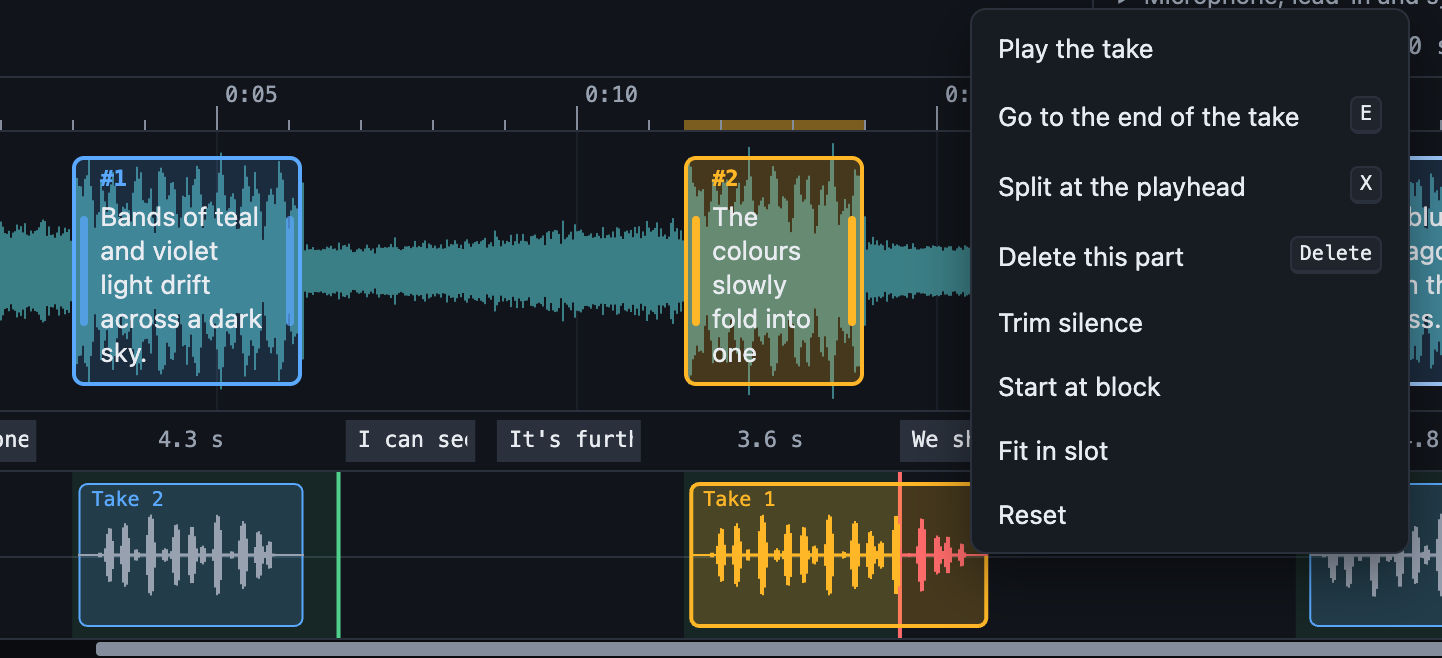
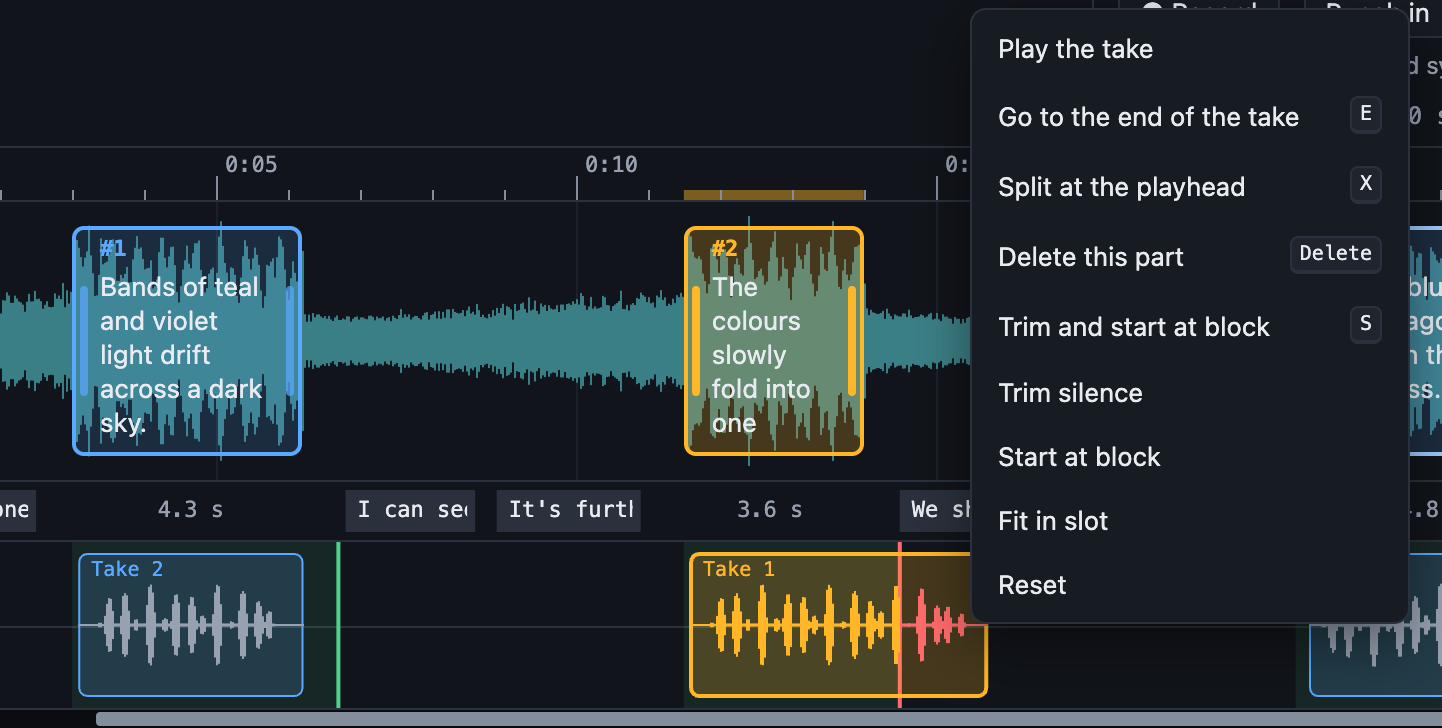
Tidy takes in one step, and a recording loop (#70)
* Trim and start a take at its block in one step

A narrator asked for an easier way to line up takes they come in late on.
Record mode's take menu and editor get Trim and start at block, which trims
the silence and then starts the take at its block. S does it for the
selected block's take.

* Trim silence at the end of a take too, past the stop key's click

The key that stops a recording is recorded, so Trim silence kept everything
up to its click and the end of a take needed trimming by hand. A short sound
on its own at either end is now left out, and quiet allows for room noise
above the −45 dBFS floor.

* A recording loop card, with S to tidy each take

Record mode had no loop card, and Show the loop there opened the
transcribing loop. It now has its own: record, tidy with S, next block.
It shows once after Record mode's setup, as the other modes' loops do.

* Punching in with E in the recording loop

---------

diff --git a/app/js/record.js b/app/js/record.js
@@ -3,7 +3,7 @@
 // that); this file does the recording. The guide is Guides/RECORDING.md.
 
 import { drawLevel, sizeMeter, showLoudest } from './levelmeter.js';
-import { slots, prevEnd, narrationTimeline, peakTrail, peakDb, judgePeak, dbText, runsOver, checkExport, exportReport, recordingId, placeTake, looksBluetooth, narrationNote, takeAt, nextTake, punchIn, PUNCH_MIN, pieces, placed, clampEdit, splitAt, cutPart, trimSilence, fitSlot, startAtBlock, snap, flatten, wavePeaks, clipAt, relink, takesKey, pickedUp, originalTake, checkPickups, checkAlts, isAlt, markerLabel, leadInParts, partEnds, stepEnd, videoDb, videoDbText, VIDEO_DB_MIN, fromRecordingFile, asRecordingFile, DRIFT, PREROLL, RATE } from './recording.js';
+import { slots, prevEnd, narrationTimeline, peakTrail, peakDb, judgePeak, dbText, runsOver, checkExport, exportReport, recordingId, placeTake, looksBluetooth, narrationNote, takeAt, nextTake, punchIn, PUNCH_MIN, pieces, placed, clampEdit, splitAt, cutPart, trimSilence, fitSlot, startAtBlock, trimAndStart, snap, flatten, wavePeaks, clipAt, relink, takesKey, pickedUp, originalTake, checkPickups, checkAlts, isAlt, markerLabel, leadInParts, partEnds, stepEnd, videoDb, videoDbText, VIDEO_DB_MIN, fromRecordingFile, asRecordingFile, DRIFT, PREROLL, RATE } from './recording.js';
 import { storeZip } from './zip.js';
 import { blockToHold, stillHeard, pauseList } from './extended.js';
 import { fmtTime } from './formats.js';
@@ -307,6 +307,9 @@ export function initRecord(h) {
       try { return trimSilence(t, await pcmOf(t)); } catch (err) { h.toast(`Couldn’t read the take: ${err.message}`); return null; }
     },
     start: (t) => startAtBlock(t, sl()[t.block], prevEndOf(t.block)),
+    async both(t) {
+      try { return trimAndStart(t, await pcmOf(t), sl()[t.block], prevEndOf(t.block)); } catch (err) { h.toast(`Couldn’t read the take: ${err.message}`); return null; }
+    },
     fit: (t) => fitSlot(t, sl()[t.block], prevEndOf(t.block)),
     reset(t) { pick = { id: t.id, part: 0 }; return { splits: [], parts: [{}] }; },
   };
@@ -363,6 +366,7 @@ export function initRecord(h) {
       field('Trim start', 'head', 'Cut this much off the start of this part. Below 0 brings back the sound before it'),
       field('Trim end', 'tail', 'Cut this much off the end of this part. Below 0 brings back the sound after it'),
       btn('Split', 'Split the take at the playhead, to move its parts apart or closer together (X)', () => doEdit(t, 'split')), cutBtn,
+      btn('Trim and start at block', 'Trim the silence, then move the take so its sound starts where the block does (S)', () => doEdit(t, 'both')),
       btn('Trim silence', 'Cut the quiet off both ends of every part, keeping a moment of it', () => doEdit(t, 'silence')),
       btn('Start at block', 'Move the take so its sound starts where the block does', () => doEdit(t, 'start')),
       btn('Fit in slot', 'Trim the end so the take stops where its slot does', () => doEdit(t, 'fit')),
@@ -1447,6 +1451,13 @@ export function initRecord(h) {
       if (!t) { h.toast(`Block ${h.selIdx() + 1} has no take yet`); return true; }
       const ends = partEnds(t), e = stepEnd(ends, video.currentTime, dir);
       goToEnd(t, ends.indexOf(e));
+      return true;
+    },
+    // S: Trim silence, then Start at block, on the selected block's take. False if no block is selected.
+    trimTake() {
+      if (!rec || state !== 'idle' || h.selIdx() < 0) return false;
+      const t = keyTake();
+      if (t) doEdit(t, 'both'); else h.toast(`Block ${h.selIdx() + 1} has no take yet`);
       return true;
     },
     // Deletes the part of a take last clicked, or the one open in the editor.

diff --git a/app/js/recording.js b/app/js/recording.js
@@ -408,13 +408,39 @@ export function splitAt(t, time) {
 }
 
 // Where the sound begins and ends in a stretch of recording: { head, tail } to trim, in
-// seconds, keeping `pad` of quiet at each end. Quiet is below `floorDb`. pcm: Float32Array.
-export function silenceEnds(pcm, rate = RATE, { floorDb = -45, pad = 0.05 } = {}) {
-  const floor = 10 ** (floorDb / 20);
-  let a = 0, z = pcm.length - 1;
-  while (a < pcm.length && Math.abs(pcm[a]) < floor) a++;
-  while (z > a && Math.abs(pcm[z]) < floor) z--;
-  if (a >= pcm.length) return { head: 0, tail: 0 }; // all quiet: leave it for the narrator
+// seconds, keeping `pad` of quiet at each end. pcm: Float32Array.
+// Quiet is below `floorDb`, or a little above the room's own noise if that's louder. A short
+// sound on its own at either end, such as the click of the key that stopped the recording,
+// is left out: words closer together than `gap` count as one stretch of speech, and a
+// stretch shorter than `blip` at an end is trimmed off, unless it's all there is.
+export function silenceEnds(pcm, rate = RATE, { floorDb = -45, pad = 0.05, gap = 0.25, blip = 0.12 } = {}) {
+  const W = Math.max(1, Math.round(rate / 100)), n = Math.ceil(pcm.length / W); // 10 ms windows
+  const lv = new Float32Array(n);
+  for (let w = 0; w < n; w++) {
+    let m = 0;
+    for (let i = w * W, e = Math.min(pcm.length, i + W); i < e; i++) { const v = Math.abs(pcm[i]); if (v > m) m = v; }
+    lv[w] = m;
+  }
+  // The room: the quietest tenth of the windows. Quiet is 12 dB above it, but never closer
+  // than 24 dB below the loudest moment, so a take with little pause in it isn't cut into.
+  const sorted = Float32Array.from(lv).sort(), room = sorted[Math.floor(n * 0.1)] || 0, top = sorted[n - 1] || 0;
+  const floor = Math.max(10 ** (floorDb / 20), Math.min(room * 4, top * 10 ** (-24 / 20)));
+  // Stretches of sound, in windows, joined across short pauses.
+  const runs = [];
+  for (let w = 0; w < n; w++) {
+    if (lv[w] < floor) continue;
+    const last = runs[runs.length - 1];
+    if (last && (w - last.z - 1) * W < gap * rate) { last.z = w; last.loud++; } else runs.push({ a: w, z: w, loud: 1 });
+  }
+  if (!runs.length) return { head: 0, tail: 0 }; // all quiet: leave it for the narrator
+  const short = (r) => r.loud * W < blip * rate;
+  let first = 0, end = runs.length - 1;
+  while (first < end && short(runs[first])) first++;
+  while (end > first && short(runs[end])) end--;
+  // The exact samples, inside the first and last windows with sound.
+  let a = runs[first].a * W, z = Math.min(pcm.length, runs[end].z * W + W) - 1;
+  while (Math.abs(pcm[a]) < floor) a++;
+  while (Math.abs(pcm[z]) < floor) z--;
   const p = Math.round(pad * rate);
   return { head: Math.max(0, a - p) / rate, tail: Math.max(0, pcm.length - 1 - z - p) / rate };
 }
@@ -445,6 +471,11 @@ export function fitSlot(t, slot, prevEnd = 0) {
 export function startAtBlock(t, slot, prevEnd = 0) {
   const e = fullEdit(t), d = slot.start - placed(t).start;
   return clampEdit(t, { splits: e.splits, parts: e.parts.map((x) => ({ ...x, shift: x.shift + d })) }, prevEnd);
+}
+
+// Trim silence, then Start at block, in one step: what a narrator wants after most takes.
+export function trimAndStart(t, pcm, slot, prevEnd = 0, rate = RATE) {
+  return startAtBlock({ ...t, edit: trimSilence(t, pcm, rate) }, slot, prevEnd);
 }
 
 // Snapping while dragging: the target nearest `v` within `tol`, or `v` if none is.

diff --git a/app/js/tour.js b/app/js/tour.js
@@ -23,6 +23,14 @@ export function loop(mode, key = keyFor) {
     '3. Play and check each block in context. The script and timings stay fixed in comments-only packages. The creator can allow edits when making a package.',
     '4. Click Comment on a block, or right-click the timeline. Save and return the reviewed file.',
   ].join('\n');
+  if (mode === 'record') return [
+    'Most of the work is one loop, repeated through the script:',
+    '1. Record it. Press Enter or R. The video plays from a few seconds before the block; read when the picture reaches the line, then press Enter or Space to stop.',
+    '2. Tidy it. S trims the silence off both ends of the take and starts it where the block does. Not happy with it? Press Enter or R to record it again.',
+    `3. Go on to the next block with ${key('blockNext')}.`,
+    'Only the end went wrong? Punch in: E puts the playhead at the end of the take, ← steps back to where to pick up, and Shift+Enter or Shift+R records from there.',
+    'Every take is kept, and the newest goes in the export.',
+  ].join('\n');
   return mode === 'write'
     ? [
       'Most of the work is one loop, repeated through the programme:',
@@ -119,7 +127,7 @@ export function stepsFor(mode, visible = () => true) {
 }
 
 export const LOOP_STEP = {
-  title: (mode) => (mode === 'qc' ? 'The QC loop' : mode === 'write' ? 'The writing loop' : 'The transcribing loop'),
+  title: (mode) => ({ qc: 'The QC loop', write: 'The writing loop', record: 'The recording loop' })[mode] || 'The transcribing loop',
   text: (mode) => loop(mode),
 };
 

diff --git a/app/js/app.js b/app/js/app.js
@@ -6953,6 +6953,8 @@ document.addEventListener('keydown', (e) => {
     if (!e.altKey && !e.shiftKey && !mod && e.code === 'KeyZ') { e.preventDefault(); zoomToTake(); return; }
     // E: the playhead to the end of the take's next part, Shift+E the previous: where to punch in.
     if (!e.altKey && !mod && e.code === 'KeyE' && recorder.toTakeEnd(e.shiftKey ? -1 : 1)) { e.preventDefault(); return; }
+    // S: trim the take's silence and start it at the block.
+    if (!e.altKey && !e.shiftKey && !mod && e.code === 'KeyS' && recorder.trimTake()) { e.preventDefault(); return; }
     if (e.key === '[' || e.key === ']') { e.preventDefault(); return; }
   }
   // [ ] by the character typed, since some layouts need ⌥ or AltGr for them.
@@ -7257,9 +7259,8 @@ initWelcome({
   // Skipped before answering about updates: ask the usual way instead. The web version
   // updates itself, so there's nothing to ask.
   if (!finished && !HOSTED && updateChoice() === null) setTimeout(openUpdates, 300);
-  // Then the loop for the mode picked, once nothing else is on screen. Record mode's is
-  // in the recording guide instead.
-  const loop = () => { if (S.mode !== 'record') whenClear(() => maybeShowLoop(S.mode)); };
+  // Then the loop for the mode picked, once nothing else is on screen.
+  const loop = () => whenClear(() => maybeShowLoop(S.mode));
   // A share link that started the first visit opens first, after that question.
   if (shareLinkWaits) setTimeout(() => { shareLinkAfterSetup(); loop(); }, 400);
   else loop();

diff --git a/app/index.html b/app/index.html
@@ -302,6 +302,7 @@
     <button role="menuitem" data-clip="end">Go to the end of this part <kbd>E</kbd></button>
     <button role="menuitem" data-clip="split">Split at the playhead <kbd>X</kbd></button>
     <button role="menuitem" data-clip="cut">Delete this part <kbd>Delete</kbd></button>
+    <button role="menuitem" data-clip="both">Trim and start at block <kbd>S</kbd></button>
     <button role="menuitem" data-clip="silence">Trim silence</button>
     <button role="menuitem" data-clip="start">Start at block</button>
     <button role="menuitem" data-clip="fit">Fit in slot</button>
@@ -1551,6 +1552,7 @@ docker compose up -d --build</code></pre>
             <dt><kbd>⇧</kbd><kbd>↵</kbd> <kbd>⇧</kbd><kbd>R</kbd></dt><dd>Punch in: pick up the block's take from the playhead</dd>
             <dt><kbd>E</kbd> <kbd>⇧</kbd><kbd>E</kbd></dt><dd>Playhead to the end of the next or previous part of the block's take</dd>
             <dt data-keys="split"><kbd>X</kbd></dt><dd>Split the block's take at the playhead</dd>
+            <dt><kbd>S</kbd></dt><dd>Trim the silence off the block's take and start it at the block</dd>
             <dt data-keys="deleteNow"><kbd>Delete</kbd></dt><dd>Delete the part of a take you last clicked</dd>
             <dt><kbd><span class="mod"></span>Z</kbd></dt><dd>Bring back the take you deleted or discarded</dd>
             <dt><kbd>P</kbd></dt><dd>Go to the next pickup</dd>

diff --git a/Guides/RECORDING.md b/Guides/RECORDING.md
@@ -94,6 +94,7 @@ The writer's notes for a block, such as how to say a name, show above its text.
 | Shift+Enter or Shift+R | [Punch in](#punching-in) from the playhead |
 | E / Shift+E | Playhead to the end of the next or previous part of the block's take |
 | X | Split the block's take at the playhead |
+| S | [Trim the silence](#editing-a-take) off the block's take and start it at the block |
 | Delete | Delete the part of a take you last clicked |
 | Ctrl/Cmd+Z | Bring back the take you deleted or discarded |
 | Esc | Stop recording, and discard the take |
@@ -179,19 +180,21 @@ waveform and the video's are sharp enough to line up single sounds.
 | Split it | Put the playhead in it, then press X |
 | Delete a part | Click it, then press Delete |
 | Play it against the video | Double-click it |
+| Cut the silence and start it at the block | Select its block, then press S |
 | Trim silence, start at block, fit in slot or reset | Right-click it |
 
 - Dragged edges snap to the block's start, the slot's end, the playhead and the other parts.
-- **Trim silence** cuts the quiet off both ends of every part.
+- **Trim silence** cuts the quiet off both ends of every part. A click on its own goes too, such as the key you stopped with.
 - **Start at block** moves the take so its sound starts where the block does.
+- **Trim and start at block** does both, in that order. S does the same.
 - **Fit in slot** trims the end to where the slot stops.
 - **Reset** brings back the take as recorded, deleted parts too.
 - **Fine-tune** in the list does the same by the millisecond, from the keyboard.
 
 ![Right-clicking a take that runs past its slot](../docs/screenshots/recording-menu.png)
 
-To cut a late start, drag the take's start in to where the sound begins, or use **Trim
-silence**. Then use **Start at block**.
+To fix a late start, press S. To choose where the sound begins yourself, drag the take's
+start in, then use **Start at block**.
 
 To close up a pause, split the take in it, use **Trim silence**, then drag the second
 part back. Parts can't overlap.

diff --git a/Guides/GETTING-STARTED.md b/Guides/GETTING-STARTED.md
@@ -110,6 +110,23 @@ Press `L` to hear the block again while you type.
 With [speech to text](TRANSCRIBING.md#speech-to-text-with-whisper) on, the line is typed
 for you, so step 3 is just checking it. [Transcribing](TRANSCRIBING.md) has the details.
 
+### The recording loop
+
+In **Record** mode, for a narrator. Open the recording file and the video together, then
+select the first block and repeat:
+
+1. **Record it.** Press `Enter` or `R`. The video plays from a few seconds before the
+   block. Read when the picture reaches the line, then press `Enter` or `Space` to stop.
+2. **Tidy it.** Press `S` to trim the silence off both ends of the take and start it at
+   the block. Not happy? Press `Enter` again for a new take.
+3. **Go on** to the next block with `Alt+Shift+→`.
+
+**Only the end went wrong?** [Punch in](RECORDING.md#punching-in): press `E` to put the
+playhead at the end of the take, step back with `←` to where to pick up, then press
+`Shift+Enter`.
+
+[Recording narration](RECORDING.md) has the details.
+
 ## Editing a block
 
 Click a block in the list to open it. The playhead stays where it is while you edit.
